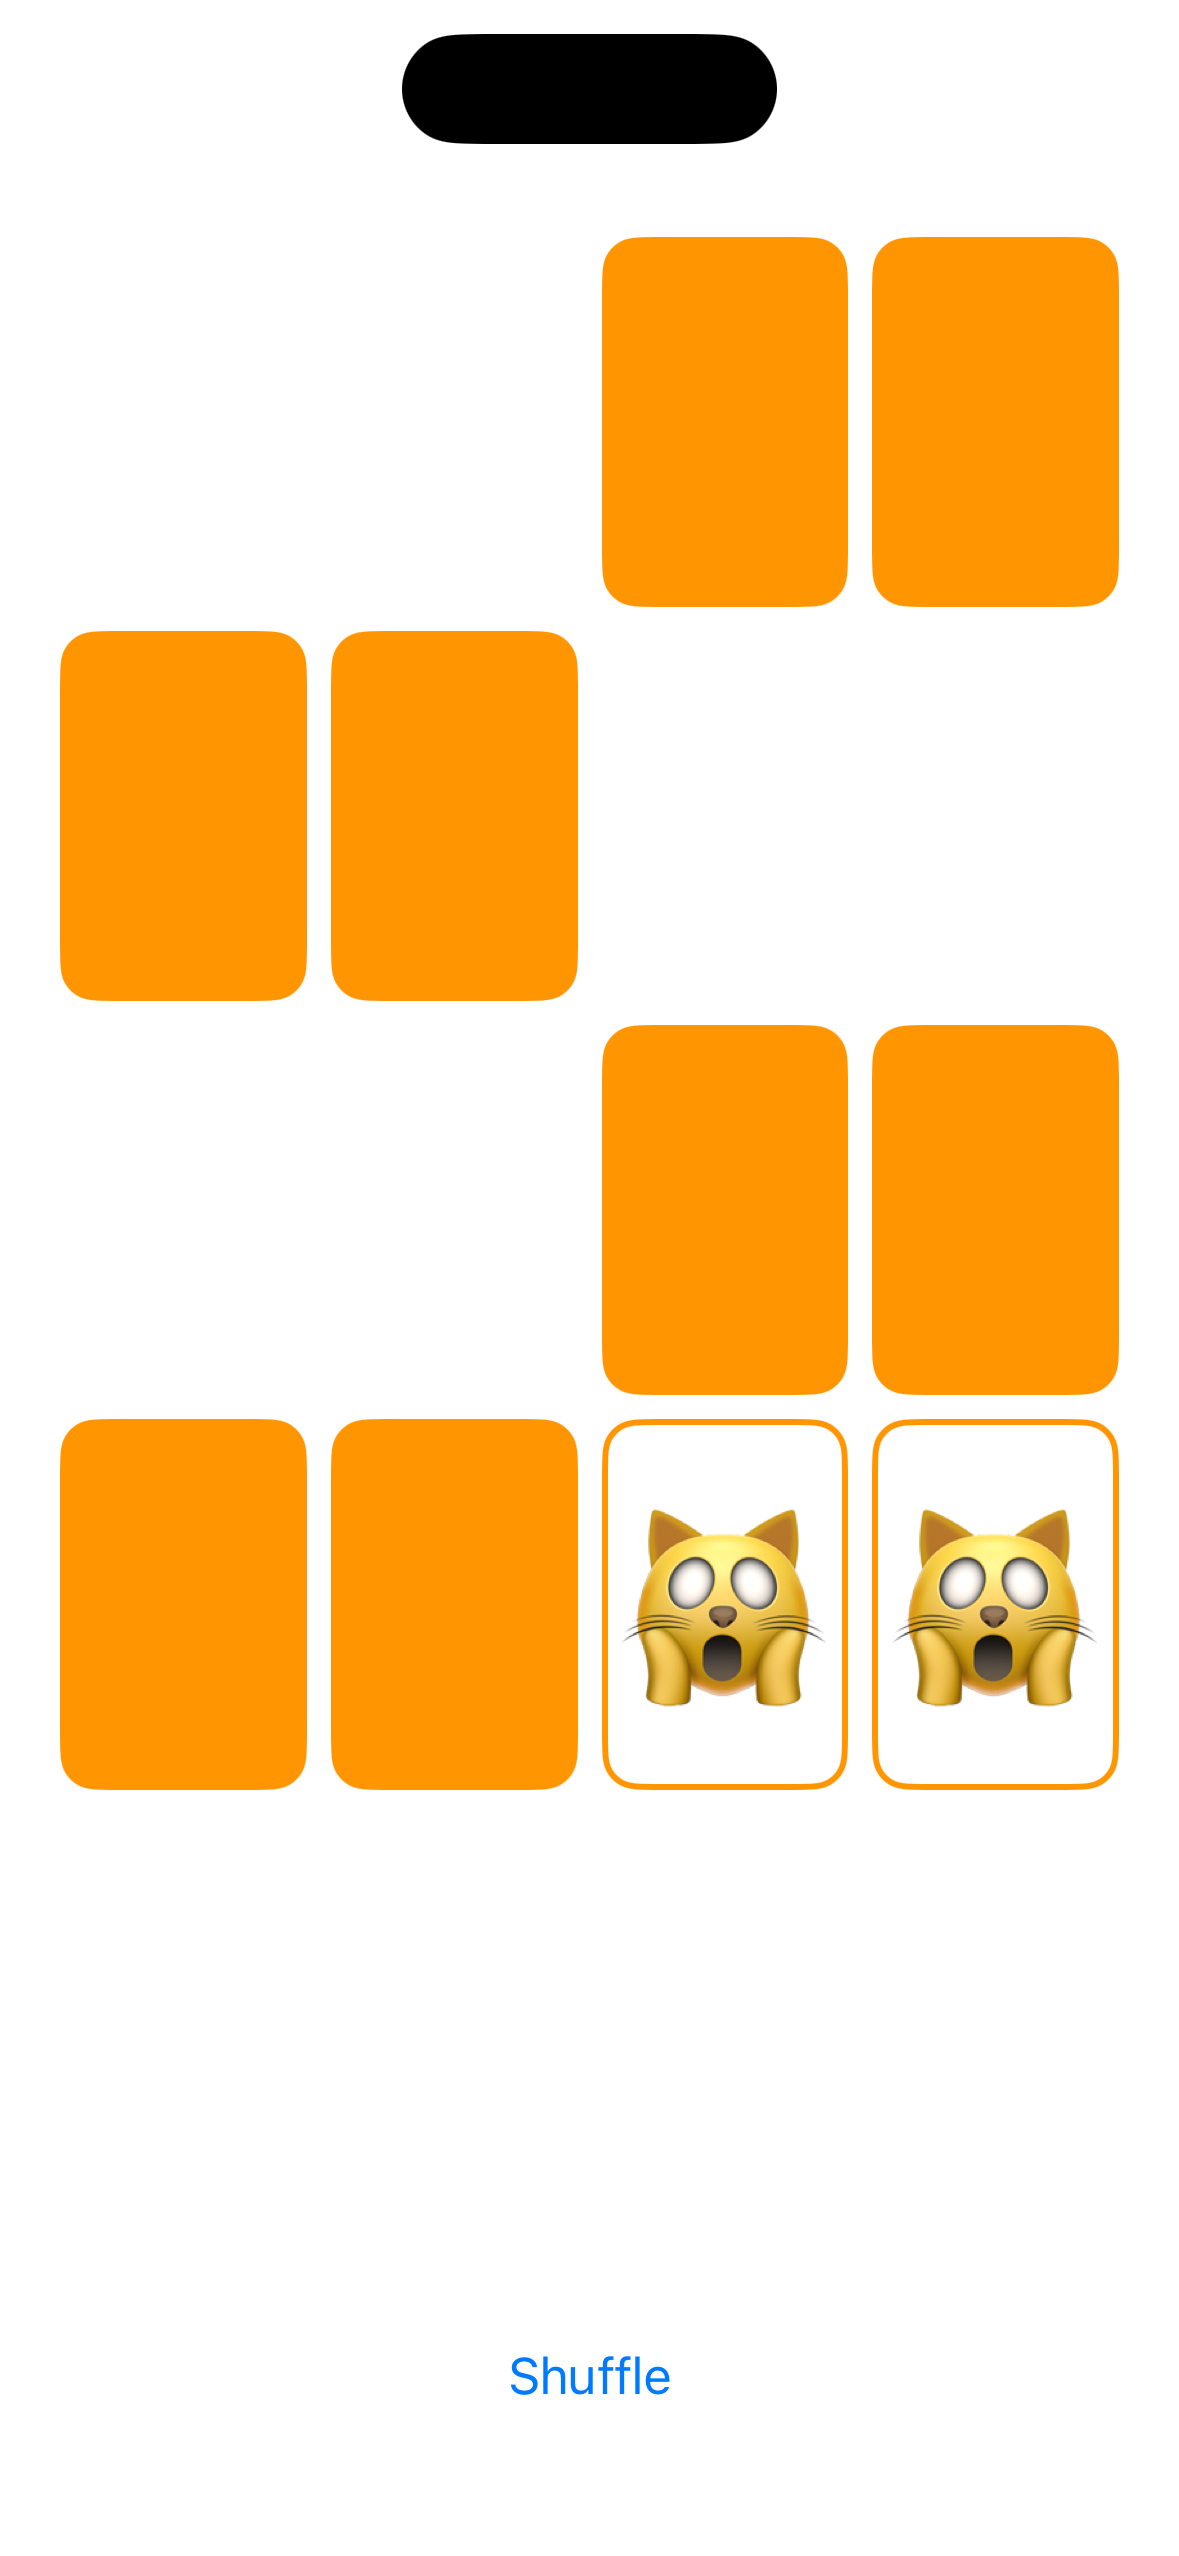
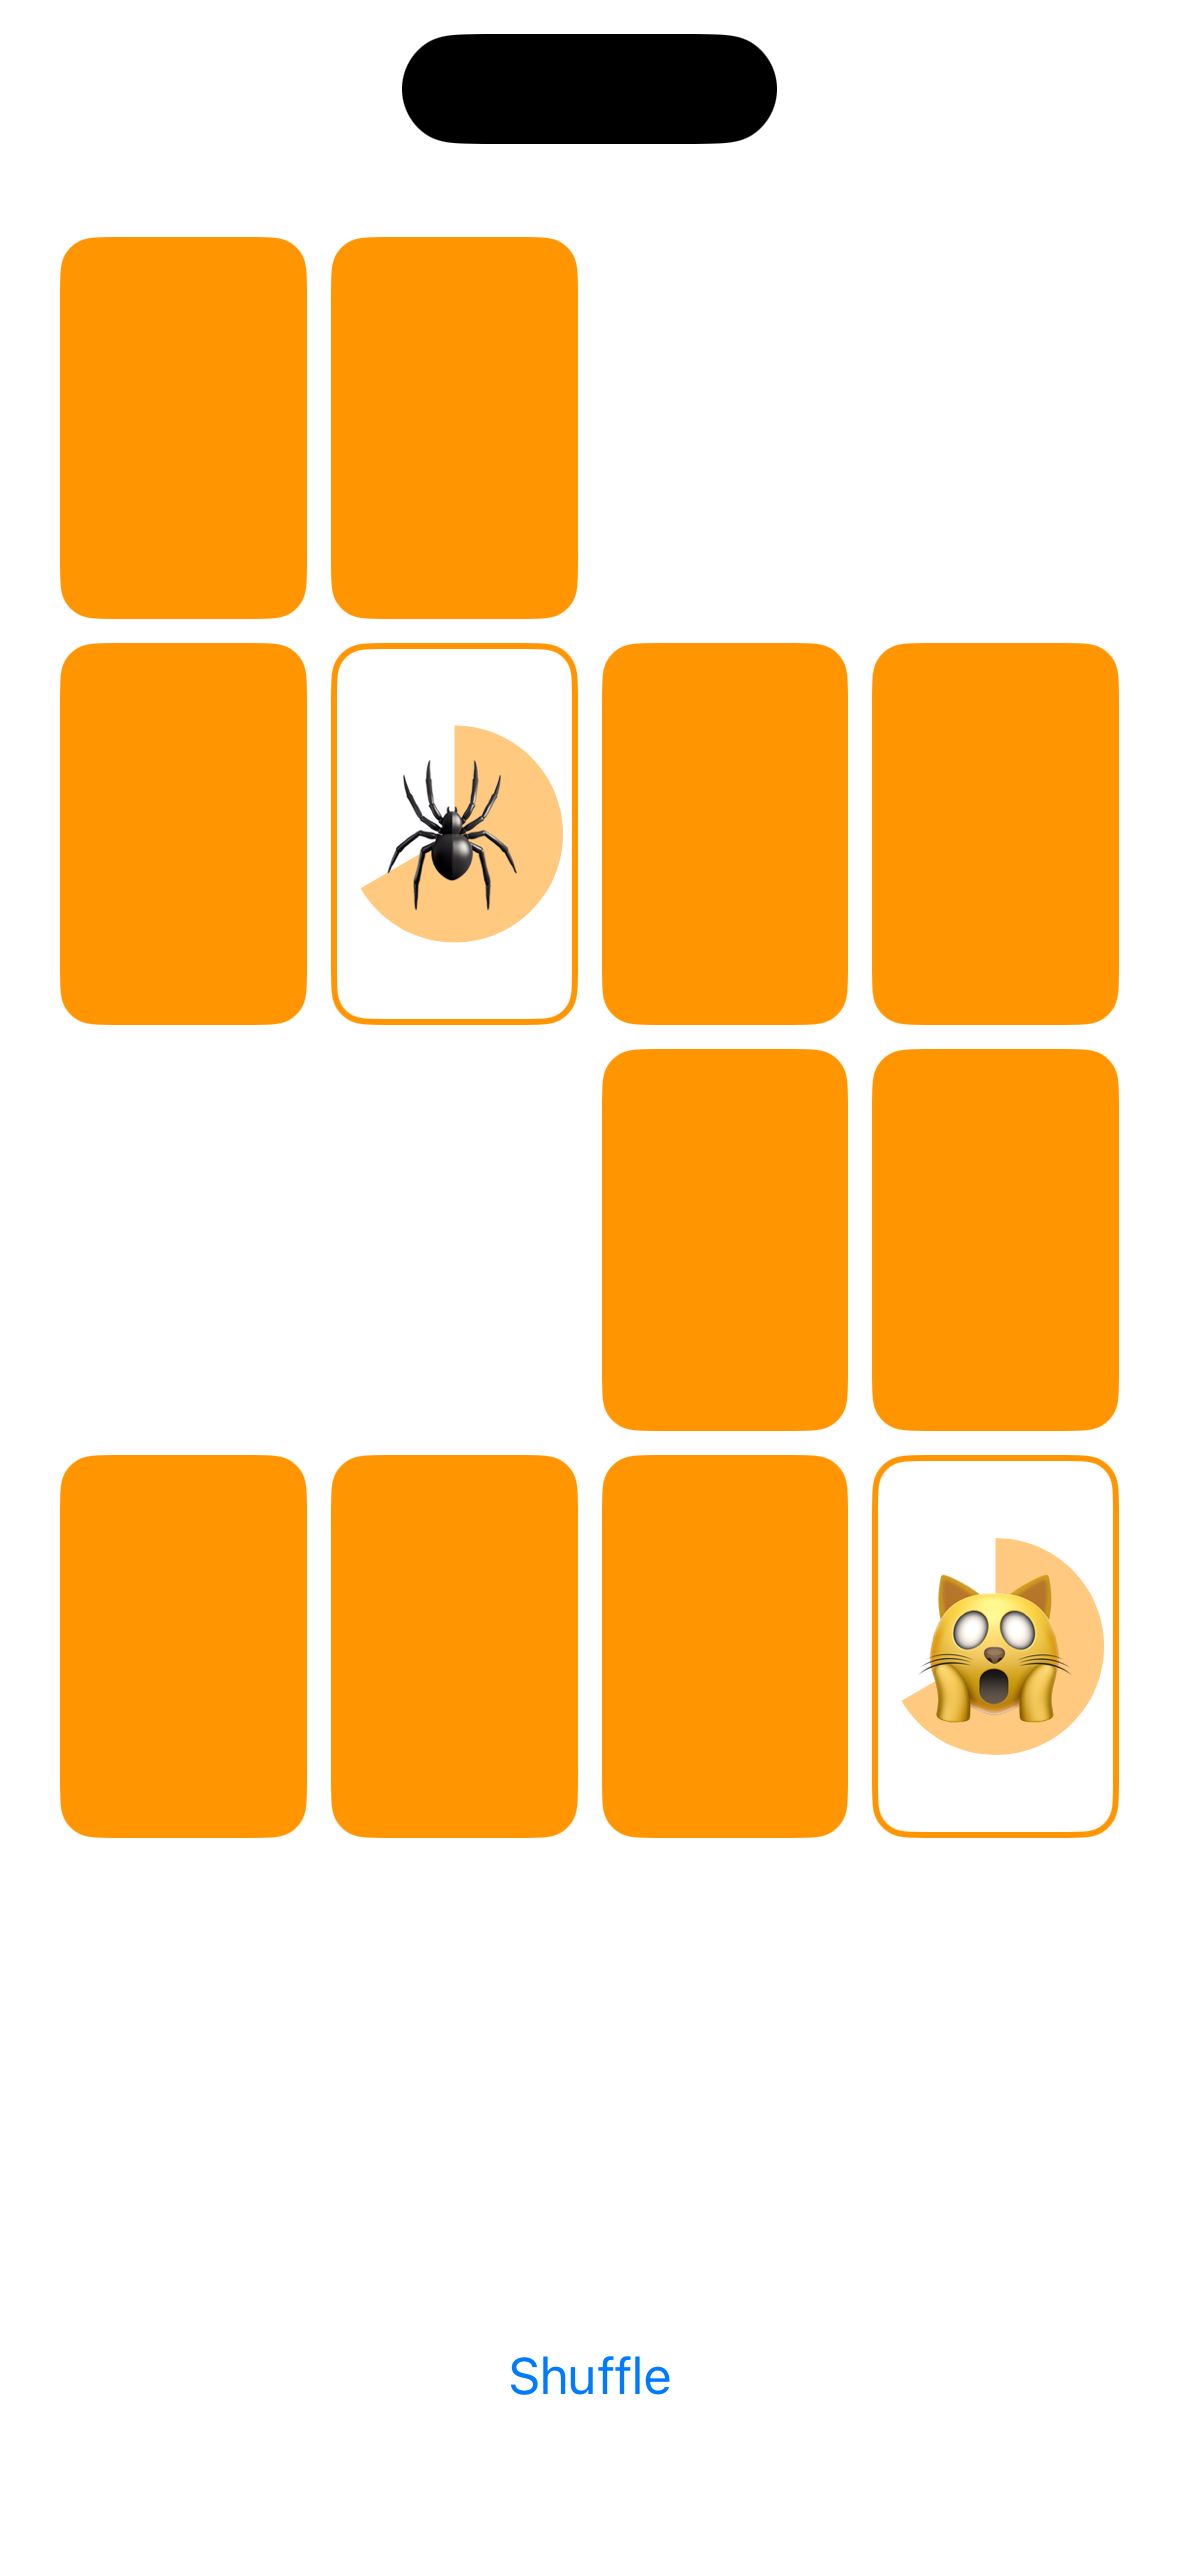
make game playable by resetting Card properties

Changed region(s): [[0.0305, 0.0927, 0.9466, 0.4327], [0.0305, 0.5254, 0.9466, 0.7418]]

diff --git a/Memorize/MemoryGame.swift b/Memorize/MemoryGame.swift
@@ -13,7 +13,7 @@ struct MemoryGame<CardContent: Equatable> {
     init(numberOfPairsOfCards: Int, cardContentFactory: (Int) -> CardContent) {
         cards = []
         // add numberOfPairsOfCards x 2 cards - at least 2 pairs of cards
-        for pairIndex in 0..<max(2, numberOfPairsOfCards) {
+        for pairIndex in 0..<max(8, numberOfPairsOfCards) {
             let content = cardContentFactory(pairIndex)
             cards.append(Card(content: content, id: "\(pairIndex+1)a"))
             cards.append(Card(content: content, id: "\(pairIndex+1)b"))
@@ -47,7 +47,7 @@ struct MemoryGame<CardContent: Equatable> {
     }
     
     struct Card: Equatable, Identifiable, CustomDebugStringConvertible {
-        var isFaceUp = true
+        var isFaceUp = false
         var isMatched = false
         let content: CardContent
         
